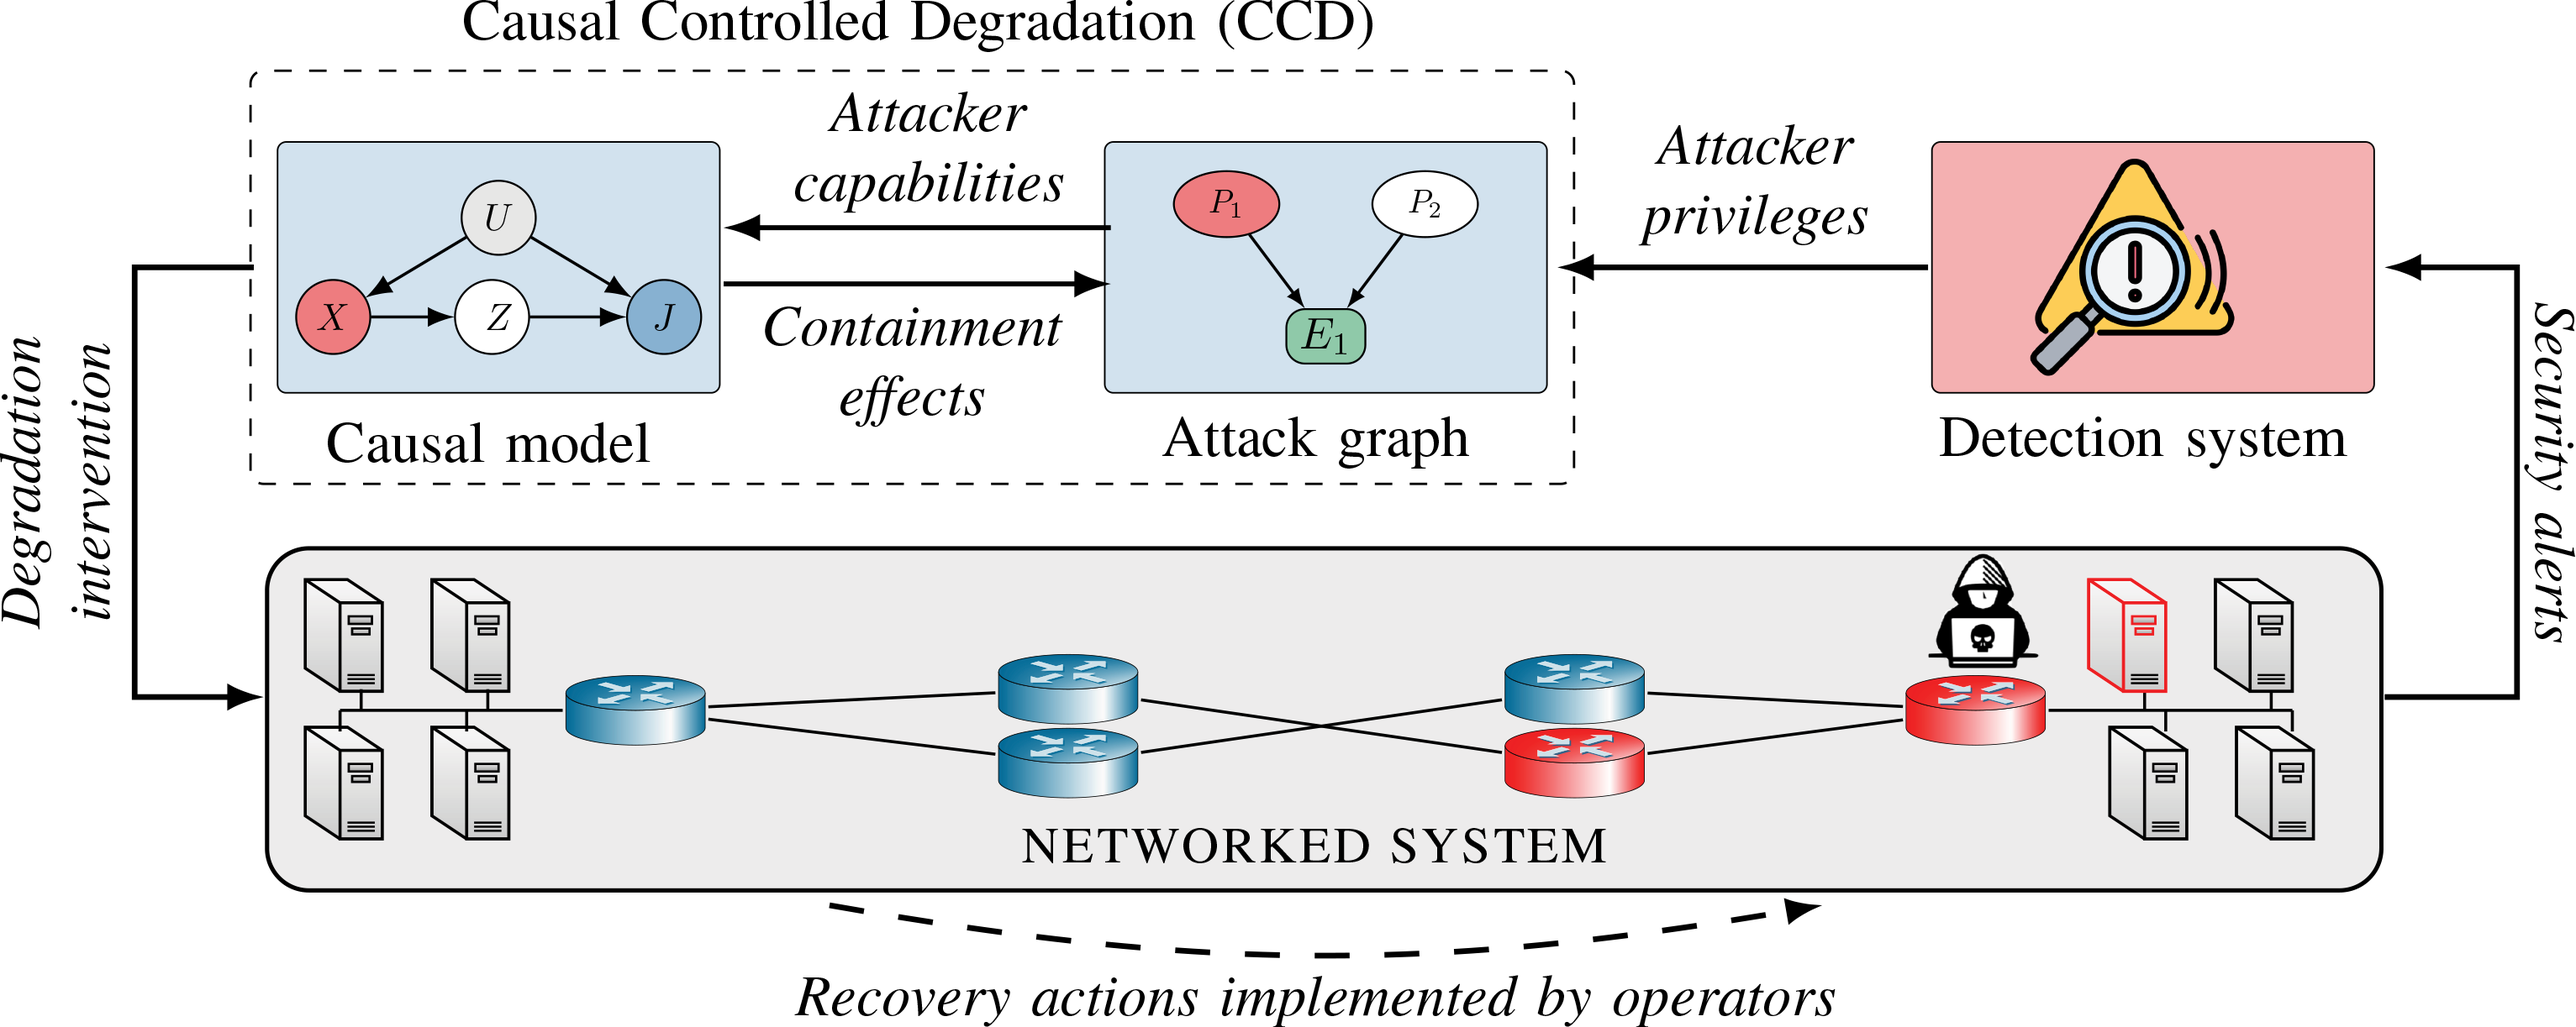
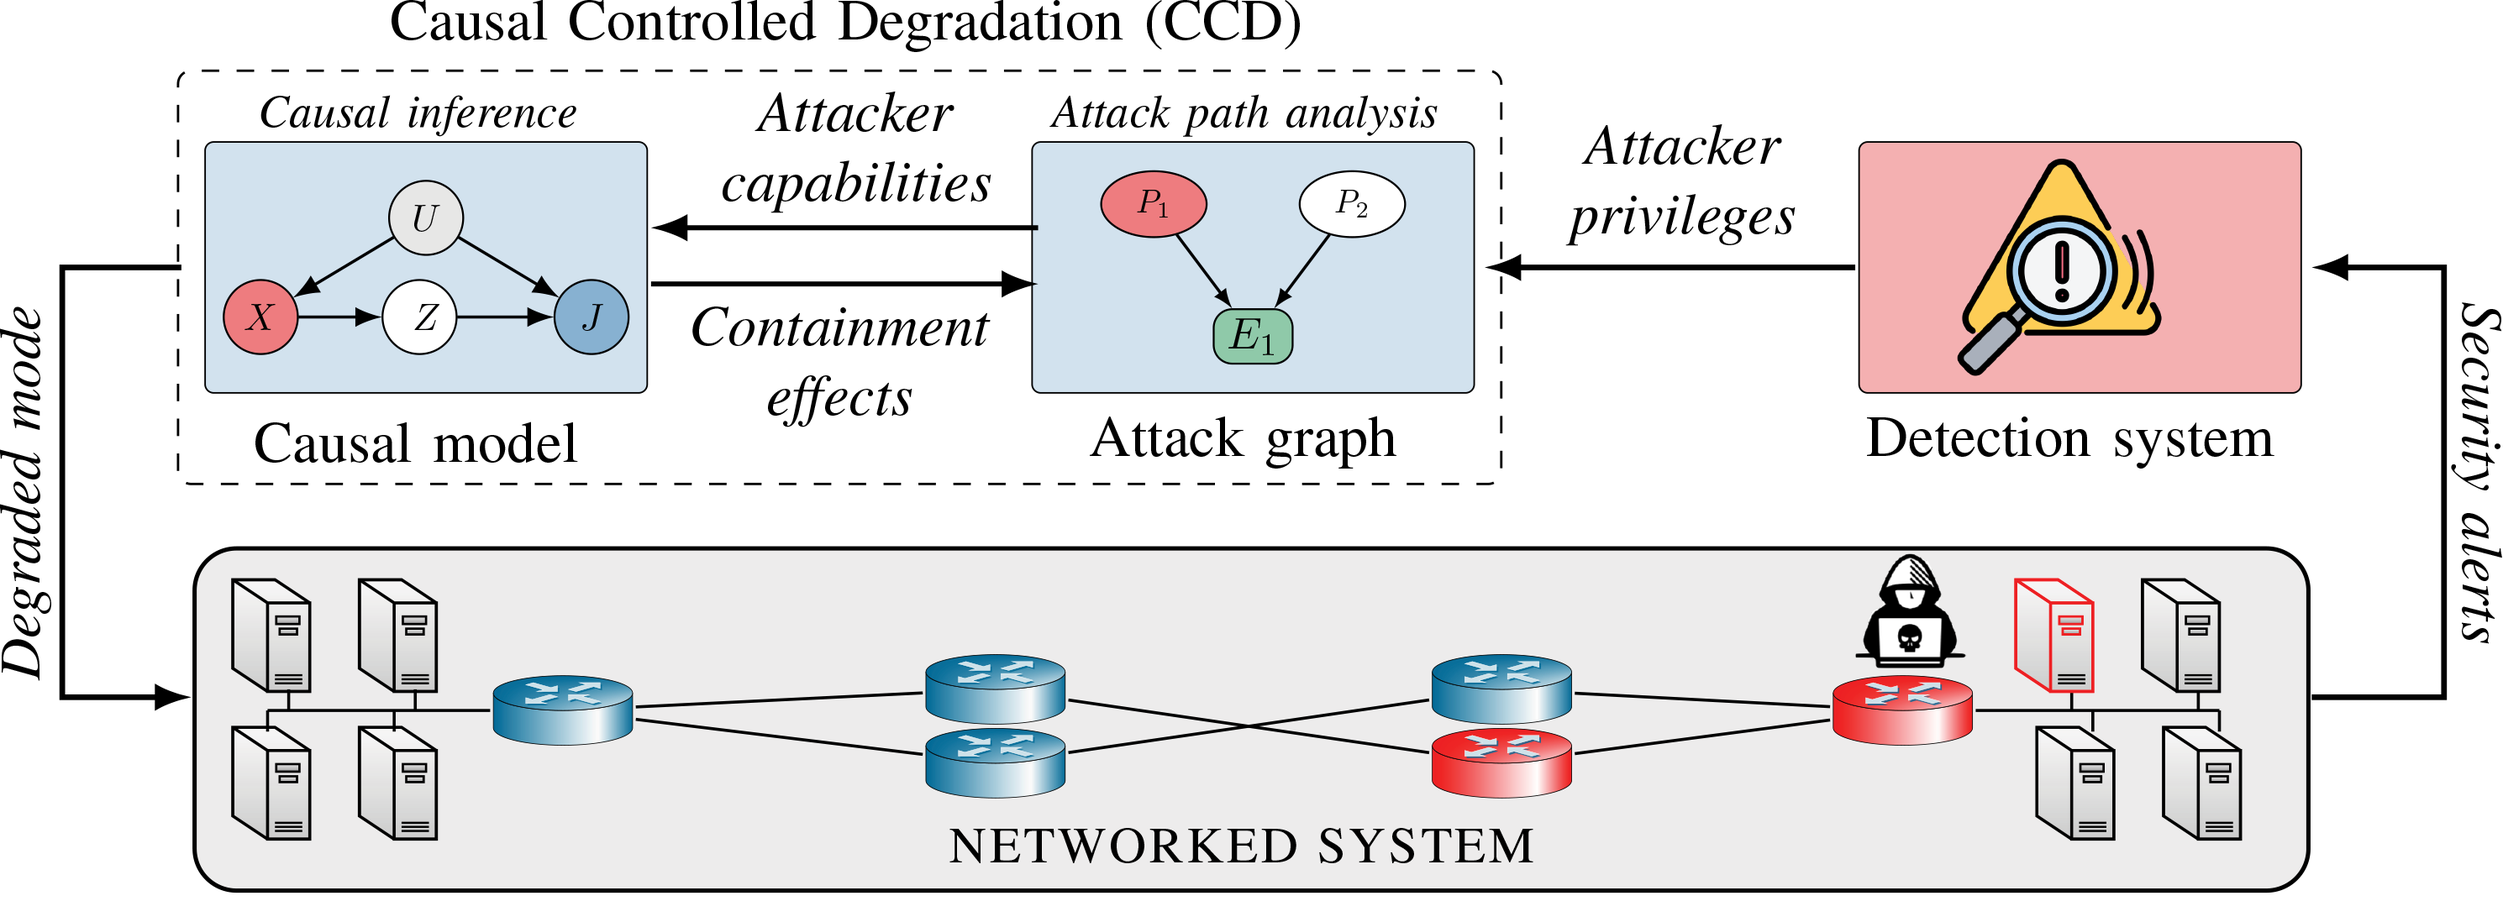
Update README

Changed region(s): [[0.0, 0.0, 1.0, 0.929], [0.0937, 0.898, 0.9053, 0.9909], [0.6556, 0.867, 0.718, 0.898]]

diff --git a/README.md b/README.md
@@ -71,9 +71,21 @@ pip install -e '.[release]'   # install build + twine
 python make_release.py      
 ```
 
-## System  models
+## System Models
 
-![CCD](docs/graphs.png)
+![models](docs/graphs.png)
+
+## Sensitivity Analysis
+
+![misspecification](docs/misspecification.png)
+
+## Comparison with Industry Practice
+
+![evaluation](docs/evaluation.png)
+
+## Comparison with Frontier LLMs
+
+![llm_comparison](docs/llm_comparison.png)
 
 ## Datasets
 
